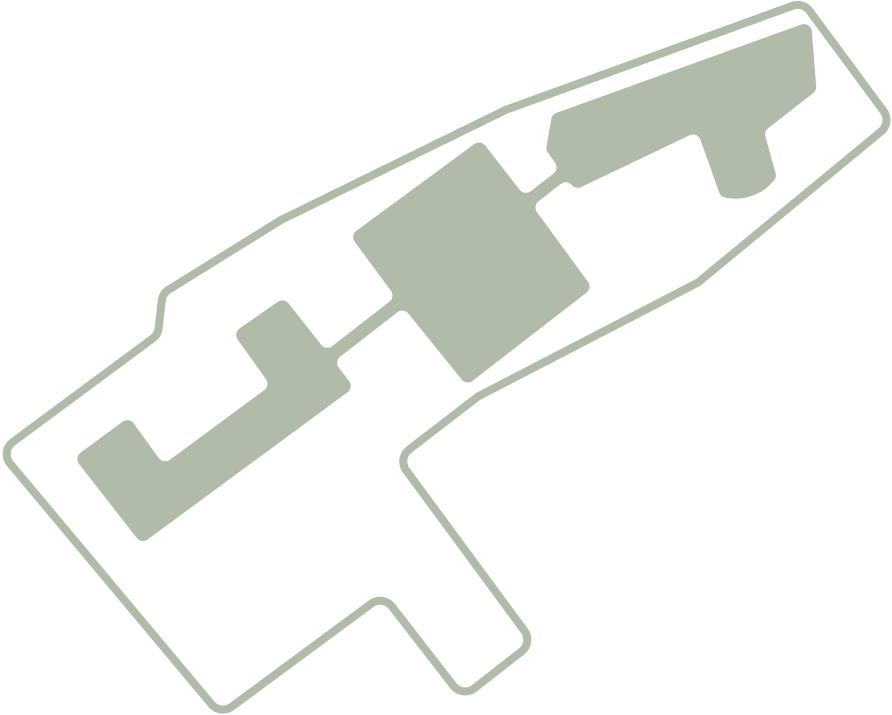
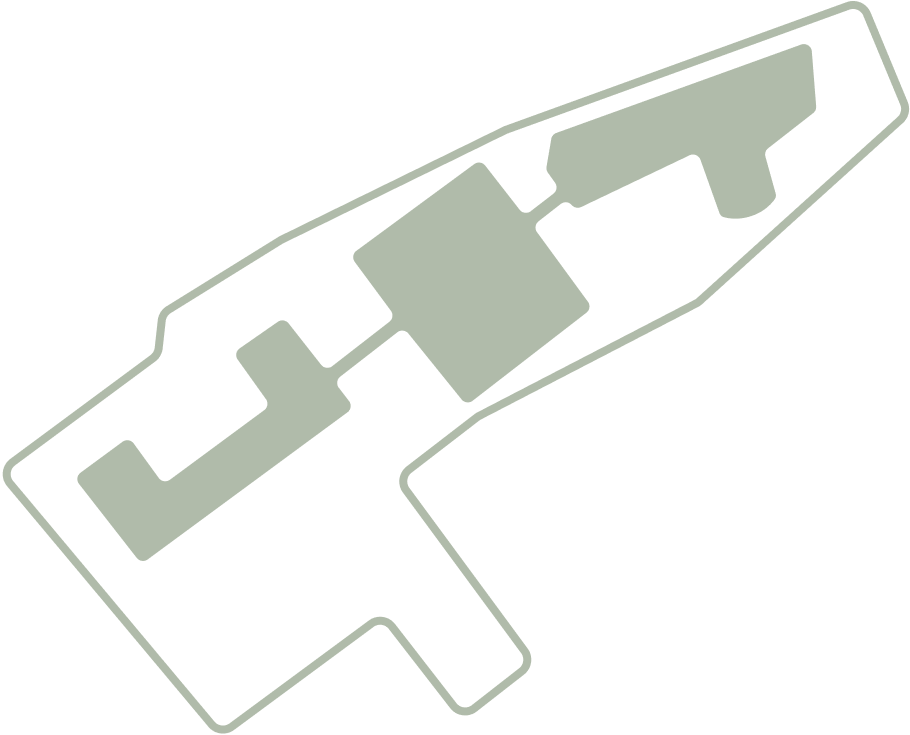
Make style for demo

diff --git a/garden/static/css/main.css b/garden/static/css/main.css
@@ -88,23 +88,110 @@ main {
 
 
 /* category.html */
+.subtitle {
+    font-size: 24px;
+    color: #3A4A2F;
+    margin-bottom: 10px;
+}
+.card-container {
+    display: flex;
+    justify-content: center;
+    flex-wrap: wrap;
+    margin-bottom: 20px;
+}
+.card {
+    width: 320px;
+    height: 380px;
+    background-color: #f0f0f0;
+    border-radius: 10px;
+    overflow: hidden;
+    /* bow-shadow: 0px 2px 4px rgba(0, 0, 0, 0.2); */
+    margin: 10px;
+    padding-top: 10px;
+    position: relative;
+    text-align: center;
+}
+.card img {
+    width: 300px;
+    height: auto;
+}
+.card-content {
+    padding: 10px;
+    text-align: left;
+}
+.card-content h3 {
+    font-size: 18px;
+    margin-bottom: 8px;
+}
+.card-content p {
+    font-size: 16px;
+    line-height: 1.3;
+}
+.card-button {
+    display: inline-flex;
+    align-items: center;
+    gap: 10px;
+    padding: 10px 10px;
+    background: #d9d9d9;
+    color: #212121;
+    text-decoration: none;
+    border-radius: 20px;
+    transition: background 0.3s;
+    margin: 0 5px 10px 0;
+}
+.card-button:hover {
+    background: #cacaca;
+}
+.card-button span {
+    padding-right: 10px;
+    padding-left: 10px;
+    font-size: 14px;
+}
+.button-container {
+    position: absolute;
+    bottom: 10px;
+}
+
+/* navigation buttons */
+.nav-button {
+    display: inline-flex;
+    align-items: center;
+    gap: 10px;
+    padding: 10px 10px;
+    background: #d9d9d9;
+    color: #212121;
+    text-decoration: none;
+    border-radius: 20px;
+    transition: background 0.3s;
+    margin: 0 10px 10px 0;
+}
+.nav-button:hover {
+    background: #cacaca;
+}
+.nav-button span {
+    padding: 0 10px 0 10px;
+    font-size: 14px;
+}
+
+/* plants.html */
+.article-container {
+    margin-bottom: 20px;
+    font-size: 14px;
+}
 
 
 
 
 /* location.html */
 .map img {
-    width: 330px;
+    width: 300px;
 }
-
 .location {
-    position: relative
+    position: relative;
+    margin-bottom: 30px;
 }
-
 .location video {
     position: absolute;
     top: 110px;
     left: 50px;
 }
-
-

diff --git a/garden/templates/category.html b/garden/templates/category.html
@@ -2,25 +2,30 @@
 
 {% block main %}
 
-<h2>{{ category_title }} ({{ quantity }})</h2>
+<div class="subtitle">
+    <h2 class="montserrat-alternates-semibold">{{ category_title }} ({{ quantity }})</h2>
+</div>
 
-<section class="cards">
+<section class="card-container">
     {% for plant in plants %}
 
     <div class="card">
+        <img class="card-img" src="{{ url_for('send_file', filename=plant.thumbnail) }}" alt="Image">
 
-        <div class="card__thumbnail">
-            <img class="card-img" src="{{ url_for('send_file', filename=plant.thumbnail) }}" alt="Image">
-        </div>
+        <div class="card-content">
 
-        <p>{{ plant.name }}</p>
-        <p>{{ plant.intro }}</p>
+            <h3 class="montserrat-alternates-semibold">{{ plant.name }}</h3>
+            <p class="source-sans-3-400">{{ plant.intro }}</p>
 
-        <div class="btn-card__detail">
-            <a href="{{ url_for('show_plant', plant_id=plant.id) }}">Details</a>
-        </div>
-        <div class="btn-card__location">
-            <a href="{{ url_for('show_map', plant_id=plant.id) }}">Location</a>
+            <div class="button-container">
+                <a href="{{ url_for('show_plant', plant_id=plant.id) }}" class="card-button">
+                    <span class="montserrat-alternates-medium">{{ settings['details_name'] }}</span>
+                </a>
+                <a href="{{ url_for('show_map', plant_id=plant.id) }}" class="card-button">
+                    <span class="montserrat-alternates-medium">{{ settings['location_name'] }}</span>
+                </a>
+            </div>
+
         </div>
 
     </div>
@@ -29,9 +34,9 @@
 </section>
 
 <nav class="nav-buttons">
-    <div class="btn-back">
-        <a href="{{ url_for('index') }}">Back home</a>
-    </div>
+        <a href="{{ url_for('index') }}" class="nav-button">
+            <span class="montserrat-alternates-medium">{{ settings['home_name'] }}</span>
+        </a>
 </nav>
 
 {% endblock %}

diff --git a/garden/templates/location.html b/garden/templates/location.html
@@ -2,14 +2,18 @@
 
 {% block main %}
 
-<h2>{{ plant_name }}</h2>
+<div class="subtitle">
+    <h2 class="montserrat-alternates-semibold">{{ plant_name }}</h2>
+</div>
 
-<p>Zone: {{ location }}</p>
+<section class="location-info">
+    <p class="source-sans-3-400">{{ plant_name }} находится в зоне {{ location }}</p>
+</section>
 
 <section class="location">
 
     <div class="map">
-        <img src="{{ url_for('static', filename='map.svg') }}" alt="Image-map">
+        <img src="{{ url_for('static', filename='map.png') }}" alt="Image-map">
     </div>
 
     <video autoplay muted loop>
@@ -19,15 +23,15 @@
 </section>
 
 <nav class="nav-buttons">
-    <div class="btn-back">
-        <a href="{{ url_for('show_plant', plant_id=plant_id) }}">Back {{ plant_name }}</a>
-    </div>
-    <div class="btn-back">
-        <a href="{{ url_for('show_category', category_name=category.name) }}">Back {{ category.value['title'] }}</a>
-    </div>
-    <div class="btn-back">
-        <a href="{{ url_for('index') }}">Back home</a>
-    </div>
+    <a href="{{ url_for('show_plant', plant_id=plant_id) }}" class="nav-button">
+        <span class="montserrat-alternates-medium">{{ plant_name }}</span>
+    </a>
+    <a href="{{ url_for('show_category', category_name=category.name) }}" class="nav-button">
+        <span class="montserrat-alternates-medium">{{ category.value['title'] }}</span>
+    </a>
+    <a href="{{ url_for('index') }}" class="nav-button">
+        <span class="montserrat-alternates-medium">{{ settings['home_name'] }}</span>
+    </a>
 </nav>
 
 {% endblock %}

diff --git a/garden/templates/plant.html b/garden/templates/plant.html
@@ -2,25 +2,24 @@
 
 {% block main %}
 
-<h2>{{ plant_name }}</h2>
-
-<section class="articles">
-
-    <p>Articles about plant</p>
-
-</section>
-
-<div class="btn-location">
-    <a href="{{ url_for('show_map', plant_id=plant_id) }}">Location</a>
+<div class="subtitle">
+    <h2 class="montserrat-alternates-semibold">{{ plant_name }}</h2>
 </div>
 
+<section class="article-container">
+    <p class="source-sans-3-400">Здесь будет дополнительная информация.</p>
+</section>
+
 <nav class="nav-buttons">
-    <div class="btn-back">
-        <a href="{{ url_for('show_category', category_name=category.name) }}">Back {{ category.value['title'] }}</a>
-    </div>
-    <div class="btn-back">
-        <a href="{{ url_for('index') }}">Back home</a>
-    </div>
+    <a href="{{ url_for('show_map', plant_id=plant_id) }}" class="nav-button">
+        <span class="montserrat-alternates-medium">{{ settings['location_name'] }}</span>
+    </a>
+    <a href="{{ url_for('show_category', category_name=category.name) }}" class="nav-button">
+        <span class="montserrat-alternates-medium">{{ category.value['title'] }}</span>
+    </a>
+    <a href="{{ url_for('index') }}" class="nav-button">
+        <span class="montserrat-alternates-medium">{{ settings['home_name'] }}</span>
+    </a>
 </nav>
 
 {% endblock %}

diff --git a/garden/static/css/fonts.css b/garden/static/css/fonts.css
@@ -4,6 +4,12 @@
     font-style: normal;
 }
 
+.montserrat-alternates-semibold {
+    font-family: "Montserrat Alternates", sans-serif;
+    font-weight: 600;
+    font-style: normal;
+  }
+
 .montserrat-alternates-medium {
     font-family: "Montserrat Alternates", sans-serif;
     font-weight: 500;
